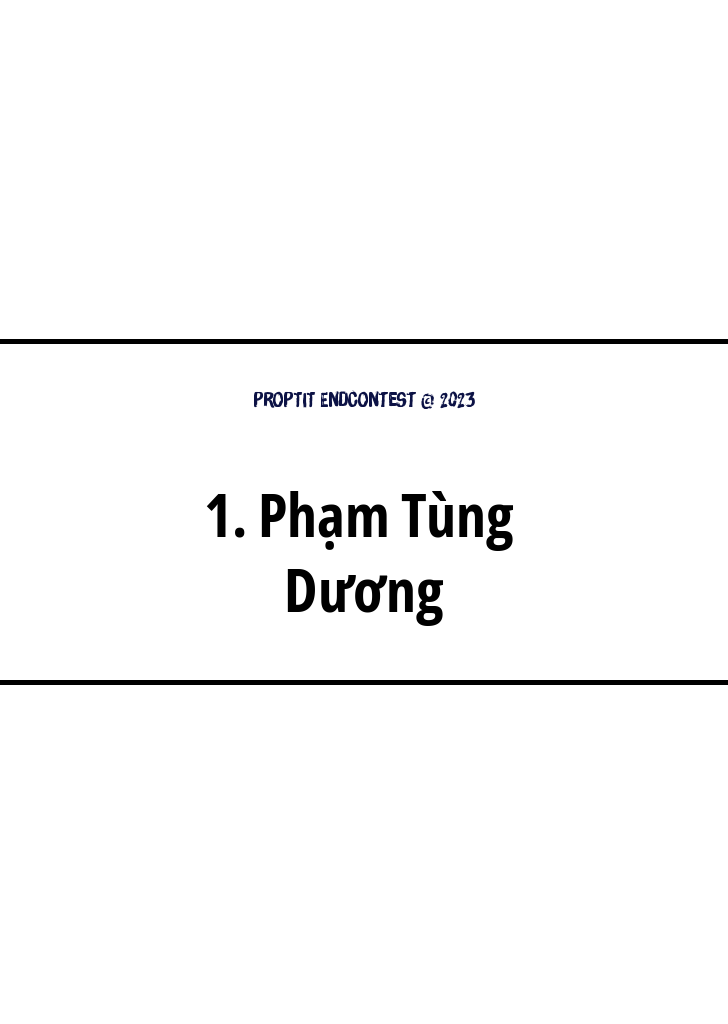
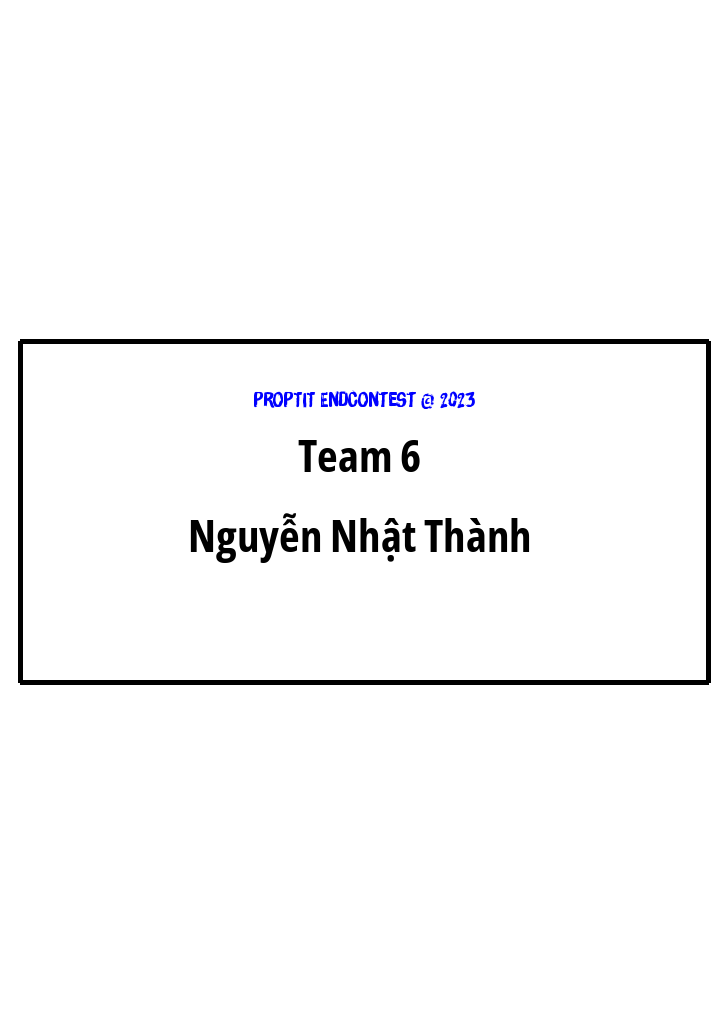
feat: add option to split line

Changed region(s): [[0.2418, 0.375, 0.7253, 0.625], [0.967, 0.3125, 1.0, 0.6875], [0.0, 0.3125, 0.0302, 0.6875]]

diff --git a/main.py b/main.py
@@ -6,6 +6,8 @@ Lines = file1.readlines()
   
 count = 0
 # Strips the newline character
+
+
 for line in Lines:
     print("Running at " + str(count+1) + "/" + str(len(Lines)) + " " + line.strip())
     count += 1
@@ -14,40 +16,37 @@ for line in Lines:
     img = Image.new('RGB', (W, H), color = 'white')
     
     d = ImageDraw.Draw(img)
-    line = str(count) + '. ' + line
-    
-    #If too long, go to next line
-    line2 = ''
-    #Split by word
-    words = line.split(' ')
-    line = ''
-    for i in range(len(words)):
-        if i <= len(words) / 2:
-            line = line + words[i] + ' '
-        else:
-            line2 = line2 + words[i] + ' '
     
     #Longer len, smaller font
-    fontsize = 60
-
-
+    fontsize = 45
     font = ImageFont.truetype(r'OpenSans_Condensed-Bold.ttf', fontsize)
-    _, _, w, h = d.textbbox((0, 0), line, font=font)
-    d.text(((W-w)/2, (H-h)/3 + (H-h)/6), line, font=font, fill="black")
-    height1 = (H-h)/3 + (H-h)/6
-    _, _, w, h = d.textbbox((0, 0), line2, font=font)
-    d.text(((W-w)/2, height1 + (H-h)/12), line2, font=font, fill="black")
 
-
+    words = line.split()
+    line = ""
+    offset = H/3
+    for word in words:
+        if (word == "||"):
+            _, _, w, h = d.textbbox((0, 0), line, font=font)
+            offset += (H-h)/12
+            d.text(((W-w)/2, offset), str(line), font=font, fill="black")
+            line = ""
+        else:
+            line += word + " "
+    if (line != ""):
+        _, _, w, h = d.textbbox((0, 0), line, font=font)
+        offset += (H-h)/12
+        d.text(((W-w)/2, offset), str(line), font=font, fill="black")
     #Draw some decoration in 1/3 in middle
-
-    d.line((0, H/3, W, 0 + H/3), fill=(0,0,0), width=5)
-    d.line((0, H/3*2, W, H/3*2), fill=(0,0,0), width=5)
+     
+    d.line((20, H/3, W - 20, 0 + H/3), fill=(0,0,0), width=5)
+    d.line((20, H/3*2, W - 20, H/3*2), fill=(0,0,0), width=5)
+    d.line((20, H/3, 20, H/3*2), fill=(0,0,0), width=5)
+    d.line((W - 20, H/3, W - 20, H/3*2), fill=(0,0,0), width=5)
 
     #Watermark in 1/3 in middle bottom
     watermark = "ProPTIT EndContest © 2023"
     font = ImageFont.truetype(r'iCiel_Brush_Up.ttf', 20)
     _, _, w, h = d.textbbox((0, 0), watermark, font=font)
     color = (12, 18, 69)
-    d.text(((W-w)/2, H/3 + 50), watermark, font=font, fill=color)
+    d.text(((W-w)/2, H/3 + 50), watermark, font=font, fill="blue")
     img.save('output/' + str(count) + '.png')
